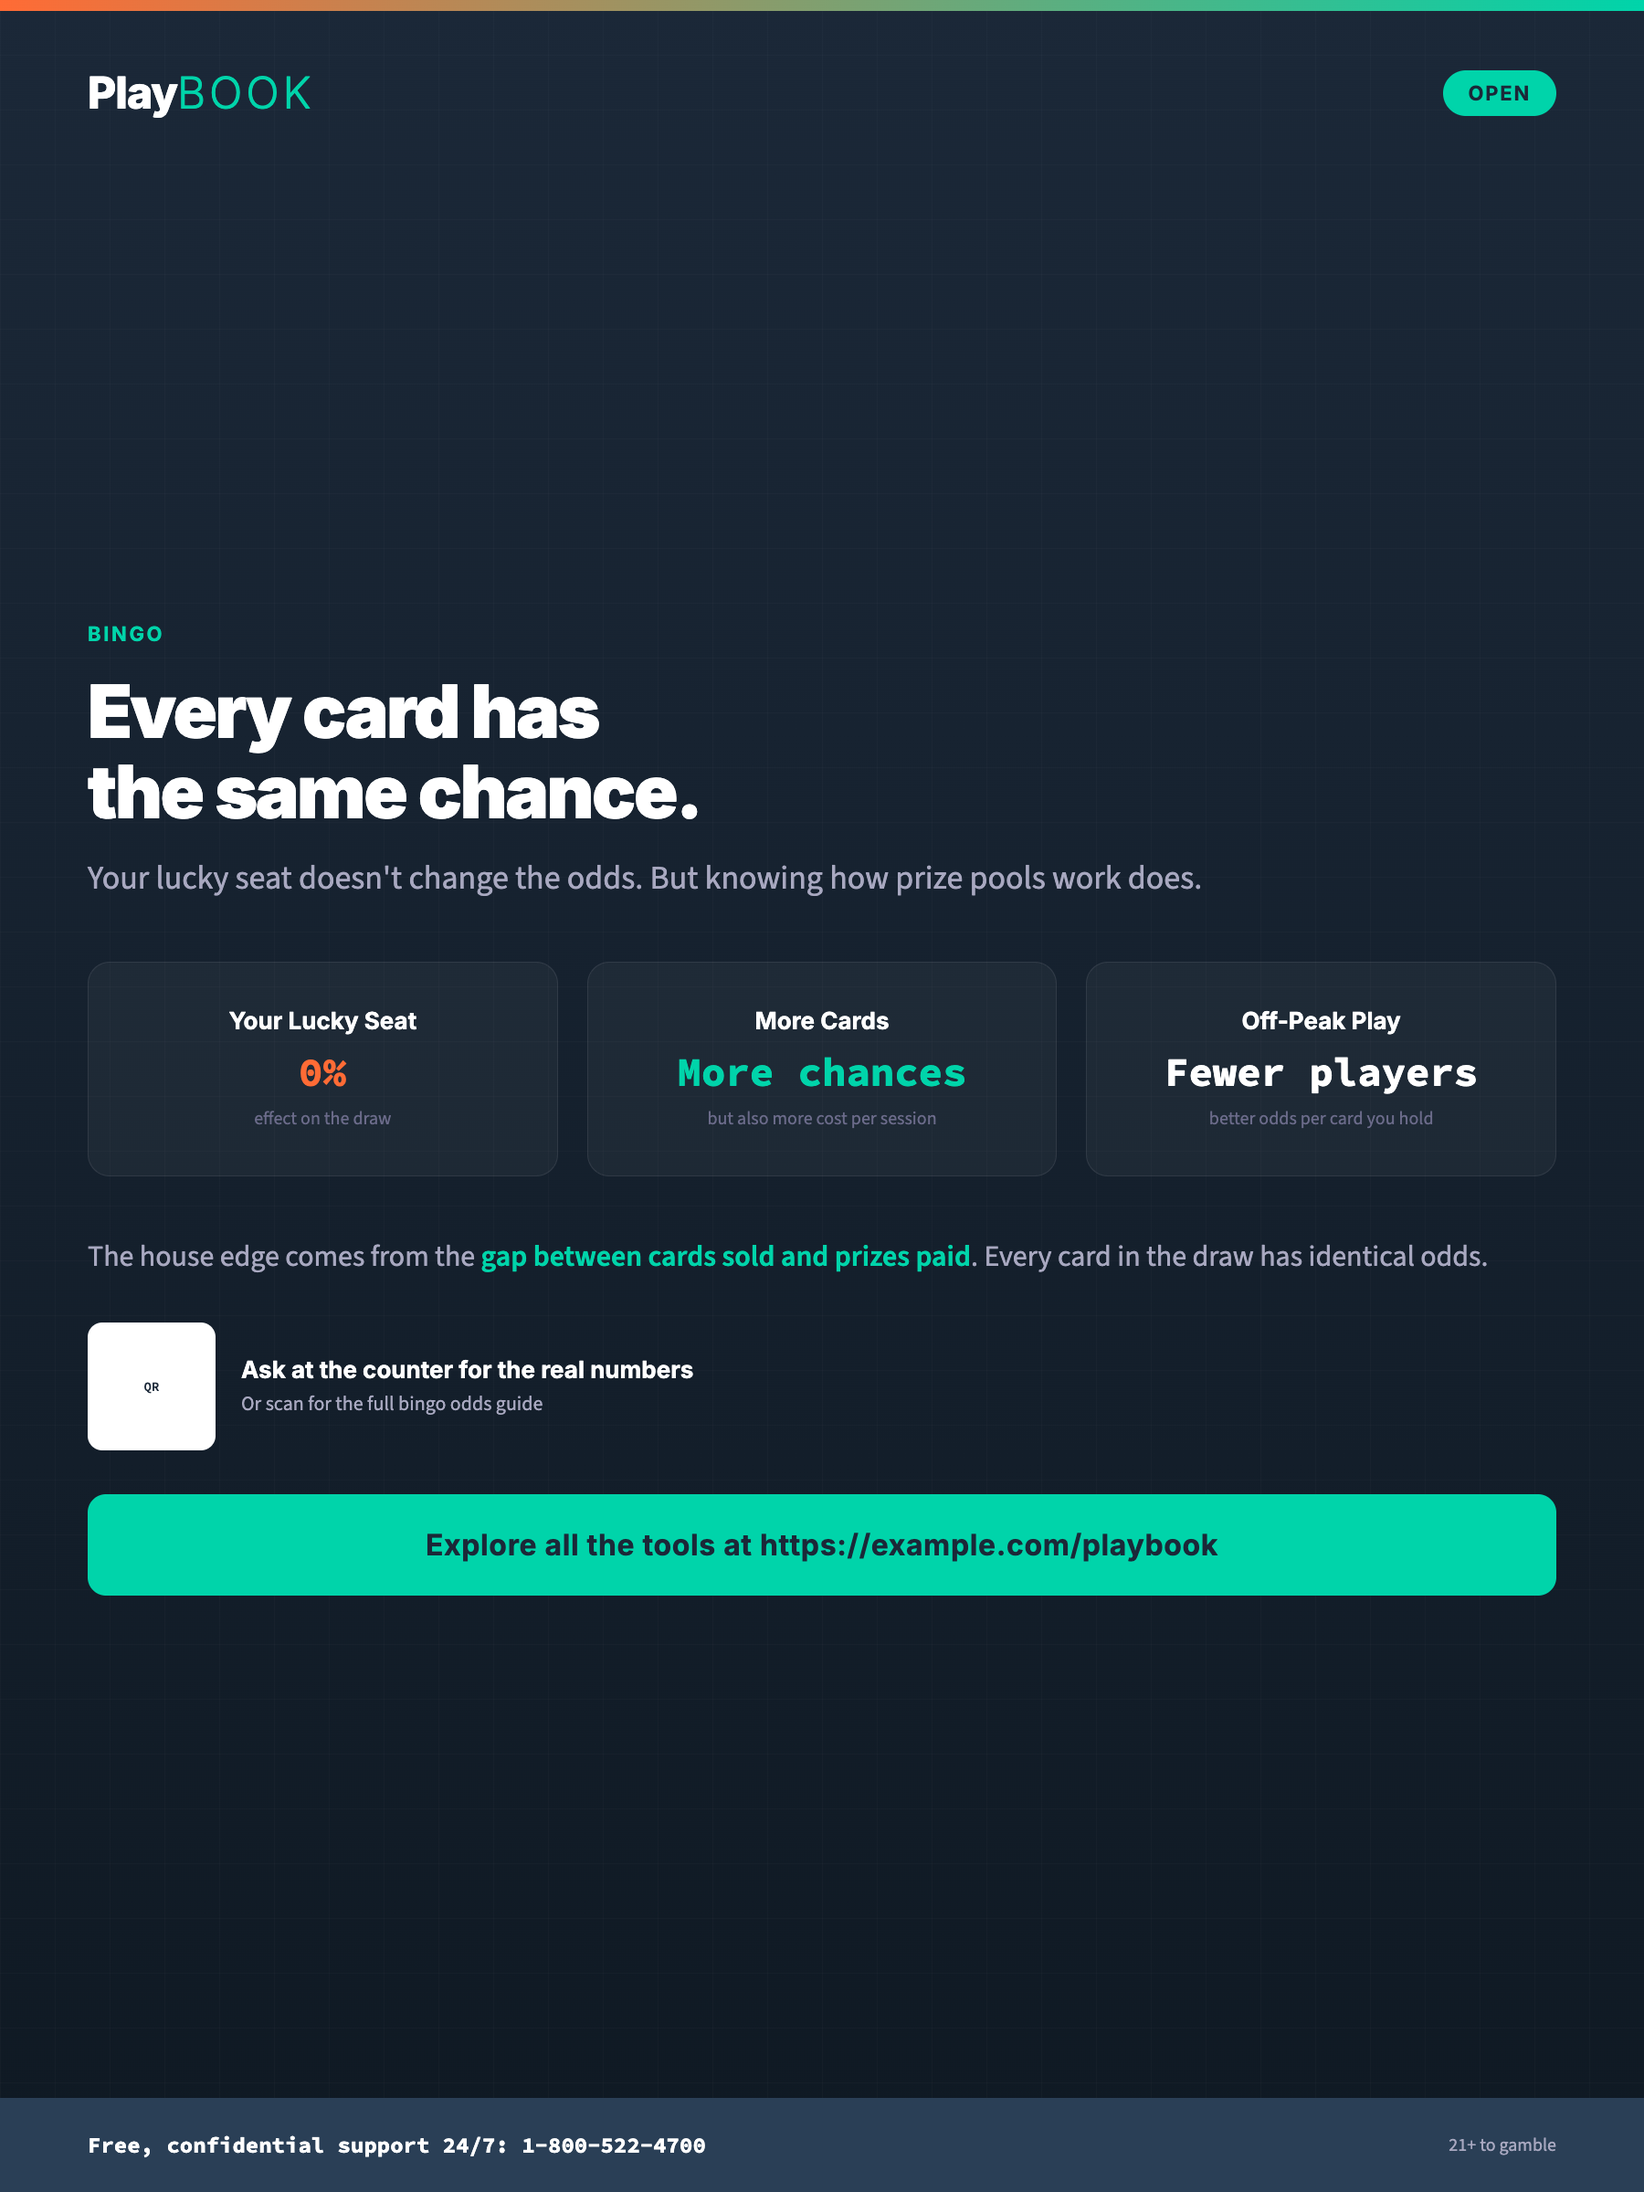
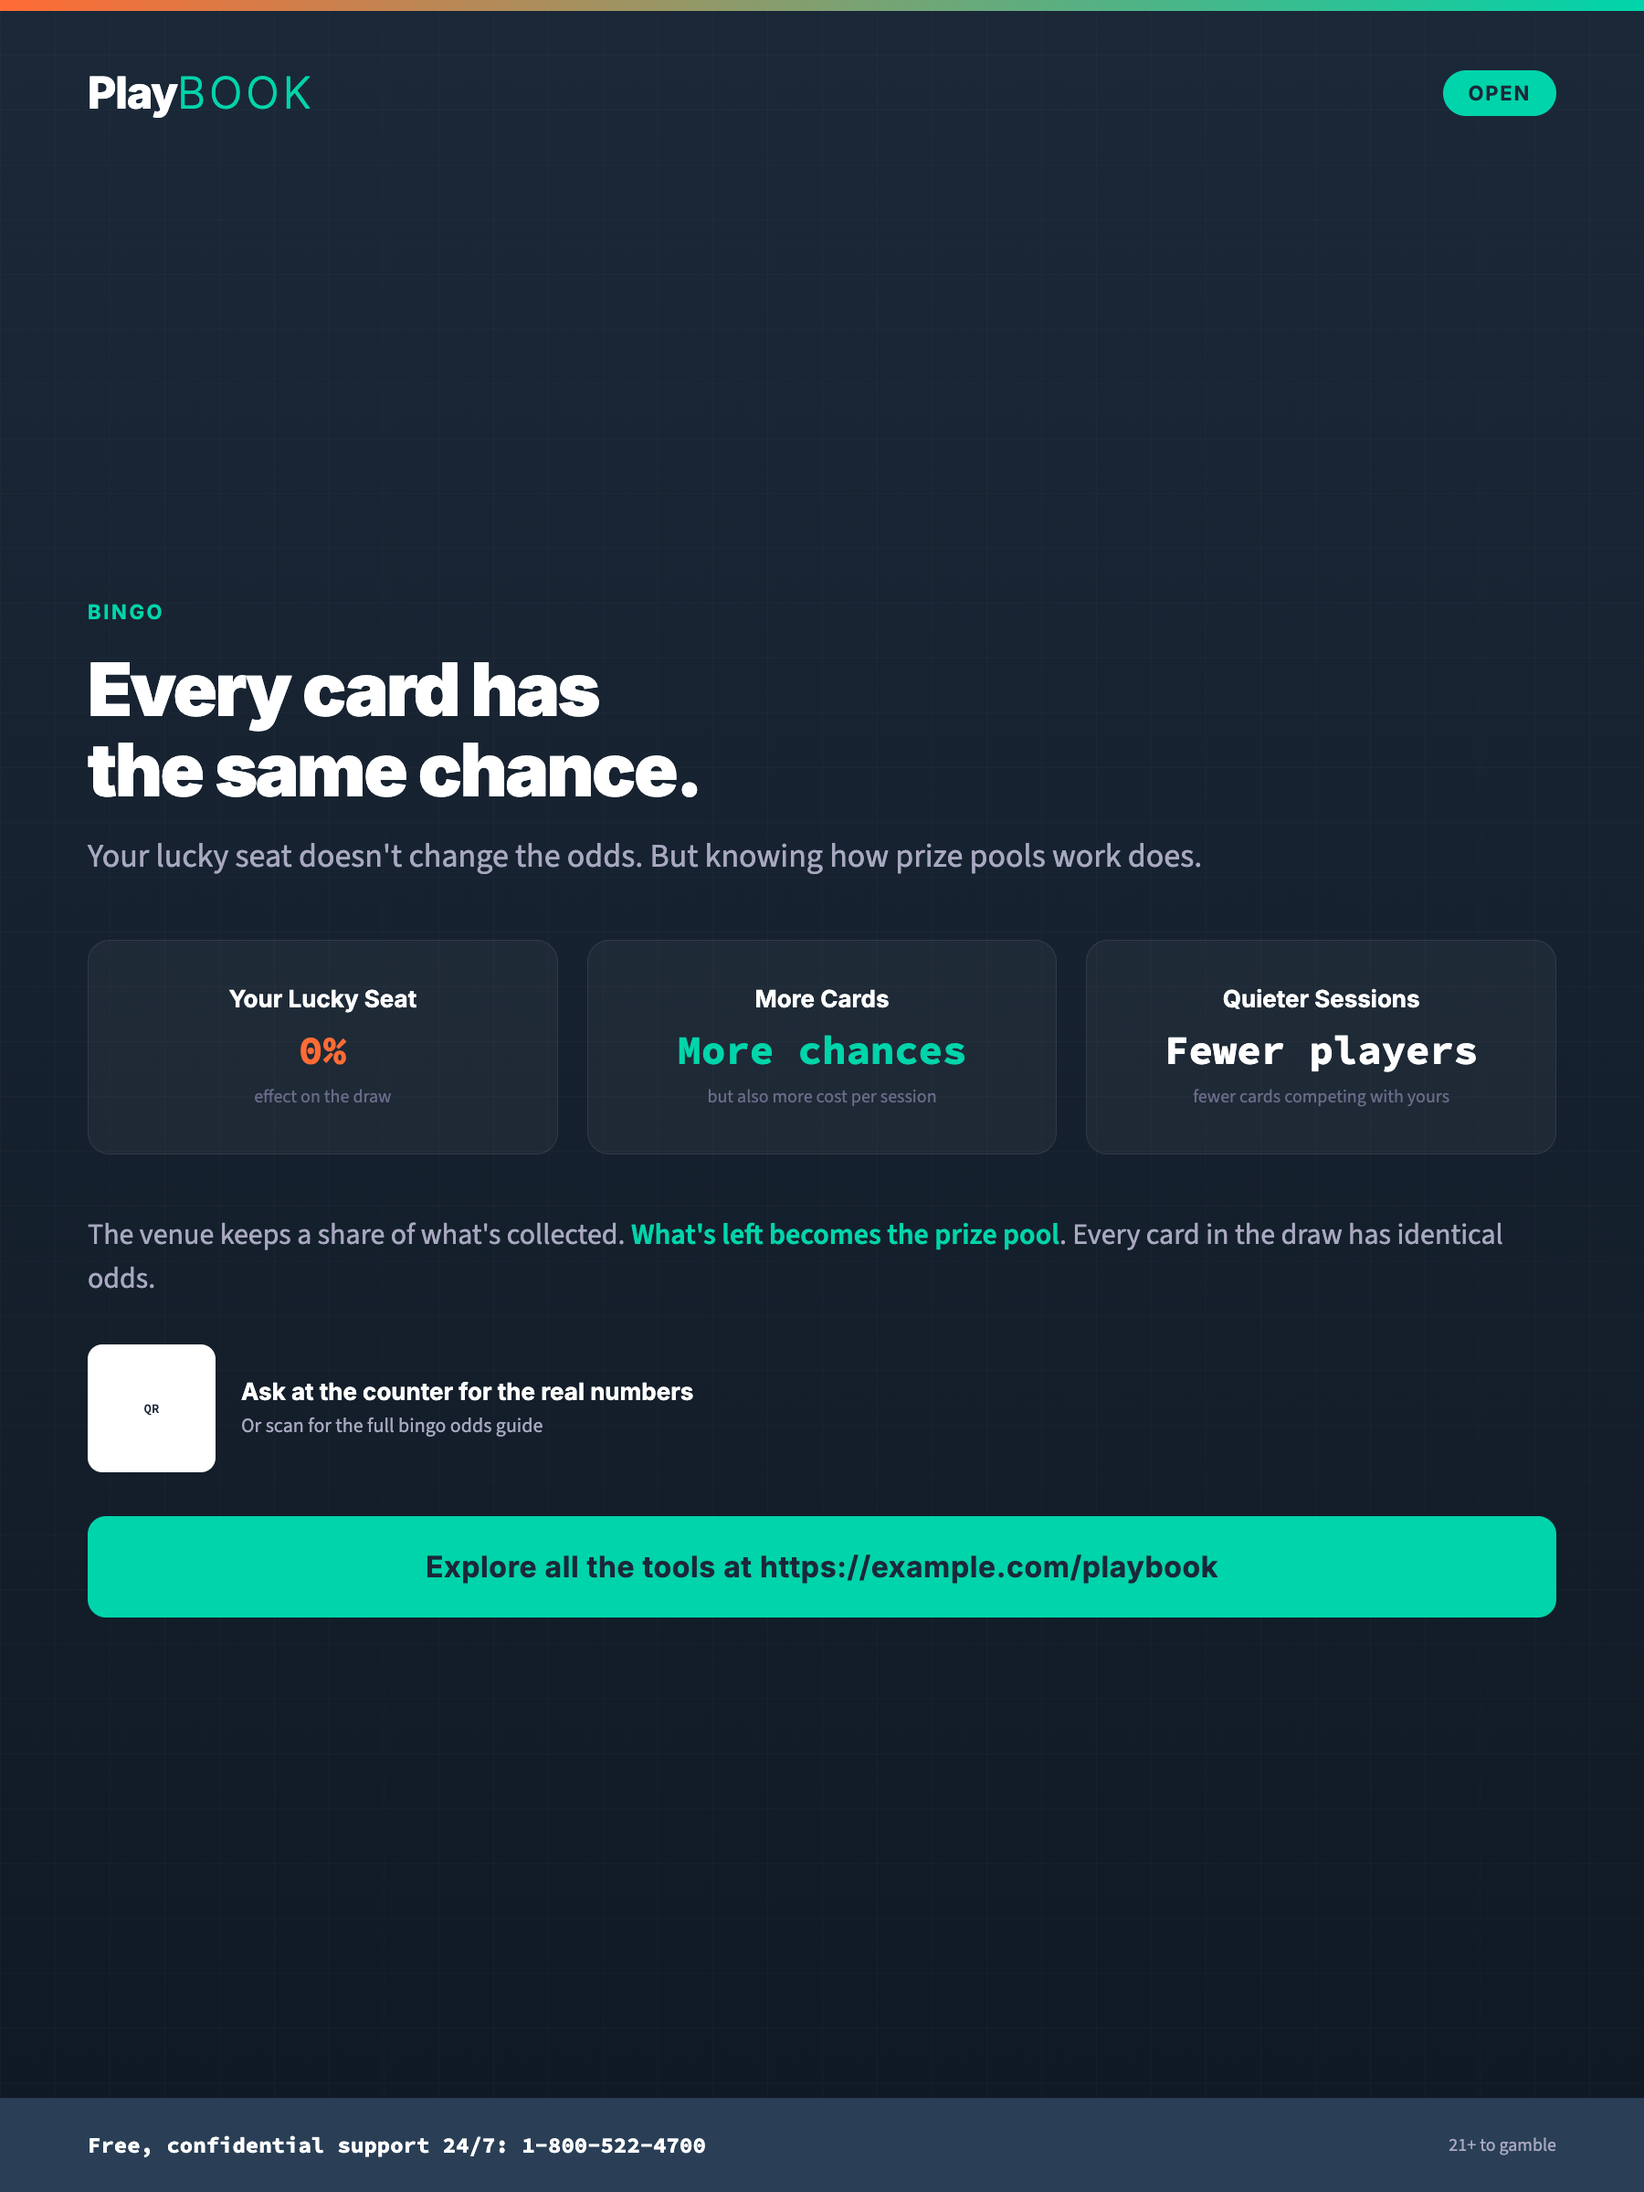
Fix brand inconsistencies and revise demographic template copy
- README.md: correct pillar list from "Open/Social/Sharp" to "Open / Social"
- 00-introduction.md: standardize "supportive mode" to "support voice"
- card-11a: replace casino jargon ("vig", "house edge") with
  audience-appropriate language for digital-native esports viewers
- card-11b: warm up lottery copy ("Every week starts fresh")
- poster-4d: replace "RTP lookup" with "prize breakdown"
- poster-4e: replace "Off-Peak Play" with "Quieter Sessions",
  simplify house edge explanation for bingo audience
- Re-render all 4 PNGs

diff --git a/collateral/render/poster-4e-bingo-hall.html b/collateral/render/poster-4e-bingo-hall.html
@@ -67,12 +67,12 @@
         <div class="stat-note">but also more cost per session</div>
       </div>
       <div class="stat-col">
-        <div class="stat-game">Off-Peak Play</div>
+        <div class="stat-game">Quieter Sessions</div>
         <div class="stat-edge white">Fewer players</div>
-        <div class="stat-note">better odds per card you hold</div>
+        <div class="stat-note">fewer cards competing with yours</div>
       </div>
     </div>
-    <div class="context">The house edge comes from the <strong>gap between cards sold and prizes paid</strong>. Every card in the draw has identical odds.</div>
+    <div class="context">The venue keeps a share of what's collected. <strong>What's left becomes the prize pool</strong>. Every card in the draw has identical odds.</div>
     <div class="qr-row">
       <div class="qr-placeholder">QR</div>
       <div class="qr-label">Ask at the counter for the real numbers<span>Or scan for the full bingo odds guide</span></div>

diff --git a/collateral/render/card-11a-streamer-myth.html b/collateral/render/card-11a-streamer-myth.html
@@ -51,10 +51,10 @@
   <div class="card-body">
     <div class="myth-label">Myth vs. Math</div>
     <div class="myth-statement"><span class="strike">"That streamer always wins"</span></div>
-    <div class="fact-statement">Sponsored streams use <strong>house money</strong>. Highlight reels cut the losses. Your account has a real balance and a real house edge.</div>
+    <div class="fact-statement">Sponsored streams use <strong>house money</strong>. Highlight reels cut the losses. Your account has a real balance — and real odds working against you.</div>
     <div class="stat-block">
       <span class="stat-number">100%</span>
-      <span class="stat-unit">of the time, the vig<br>is built into esports odds</span>
+      <span class="stat-unit">of esports odds include a<br>built-in margin. The book always gets its cut.</span>
     </div>
   </div>
   <div class="card-footer">

diff --git a/collateral/render/card-11b-lucky-numbers.html b/collateral/render/card-11b-lucky-numbers.html
@@ -51,10 +51,10 @@
   <div class="card-body">
     <div class="myth-label">Myth vs. Math</div>
     <div class="myth-statement"><span class="strike">"My numbers are due"</span></div>
-    <div class="fact-statement">Every combination in a 6/49 draw has <strong>identical odds: 1 in 13,983,816</strong>. The lottery doesn't remember last week's draw.</div>
+    <div class="fact-statement">Every combination in a 6/49 draw has <strong>identical odds: 1 in 13,983,816</strong>. The draw doesn't remember last week. Every week starts fresh.</div>
     <div class="stat-block">
       <span class="stat-number">0%</span>
-      <span class="stat-unit">chance past draws<br>affect the next one</span>
+      <span class="stat-unit">chance any past draw<br>affects the next one</span>
     </div>
   </div>
   <div class="card-footer">

diff --git a/collateral/render/poster-4d-lottery-odds.html b/collateral/render/poster-4d-lottery-odds.html
@@ -75,7 +75,7 @@
     <div class="context"><strong>Lucky numbers, birthdays, systems</strong> — the math doesn't care. Every combination is equally (un)likely.</div>
     <div class="qr-row">
       <div class="qr-placeholder">QR</div>
-      <div class="qr-label">Scan for the full breakdown<span>Lottery odds guide and scratch card RTP lookup</span></div>
+      <div class="qr-label">Scan for the full breakdown<span>Lottery odds guide and scratch card prize breakdown</span></div>
     </div>
     <a href="#" class="poster-cta">Explore all the tools at {{PROGRAM_URL}}</a>
   </div>

diff --git a/README.md b/README.md
@@ -65,7 +65,7 @@ Playbook/
 │
 ├── brand-book/                       # Core brand guidelines (10 chapters)
 │   ├── 00-introduction.md            # Purpose, the engagement gap, two-tier system
-│   ├── 01-brand-foundation.md        # Mission, vision, pillars (Open/Social/Sharp)
+│   ├── 01-brand-foundation.md        # Mission, vision, pillars (Open / Social)
 │   ├── 02-brand-personality.md       # Playbook voice, humor guidelines
 │   ├── 03-visual-identity.md         # Logo, color, typography, icons, photography
 │   ├── 04-voice-and-tone.md          # The confident myth-buster voice

diff --git a/brand-book/00-introduction.md b/brand-book/00-introduction.md
@@ -309,7 +309,7 @@ when a player needs support, wants to take a break, or is reaching out for help.
 - Content for friends and family of players who need support
 
 **The voice:** Warm. Direct. Appropriately serious. The confident myth-buster
-takes a step back. The voice shifts to supportive mode. No humor. No cleverness. Just
+takes a step back. The support voice takes over. No humor. No cleverness. Just
 clarity, compassion, and a clear path to help.
 
 **The assumption:** The reader may be in a vulnerable moment. Every word matters.
